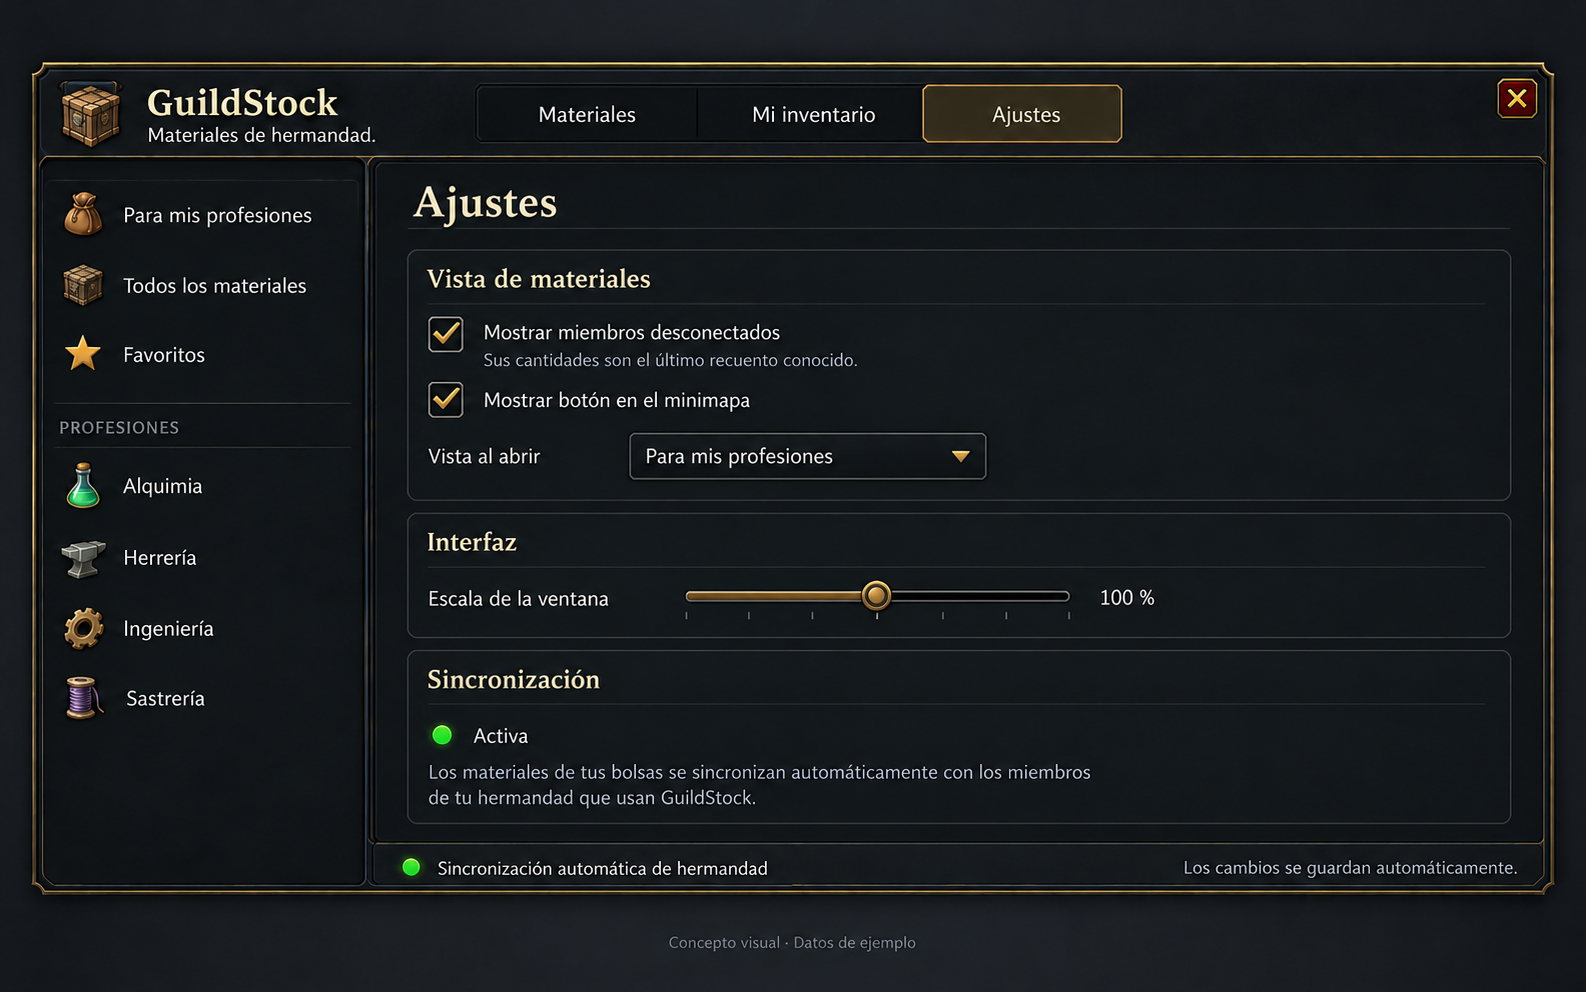
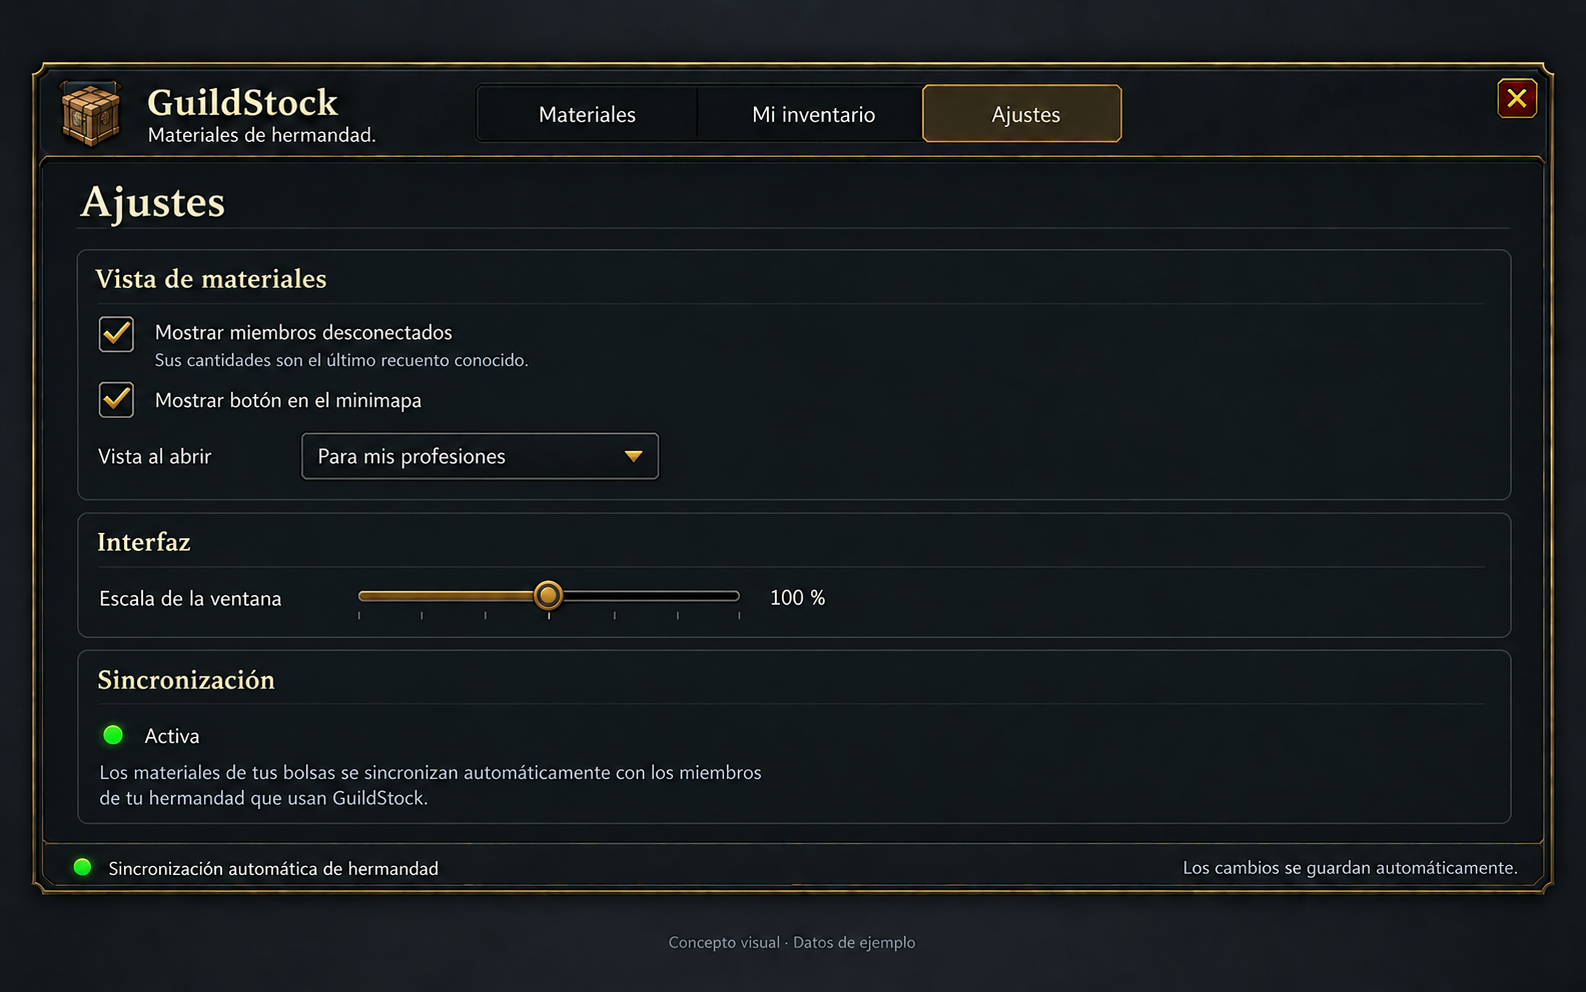
Remove materials sidebar from GuildStock settings concept

diff --git a/docs/GUILD_MATERIALS_PLAN.md b/docs/GUILD_MATERIALS_PLAN.md
@@ -14,7 +14,7 @@ One movable window, opened through a minimap button or slash command, with three
 - Last online shows Online for connected characters and the last known connection age for offline characters. Resolve that information from permitted guild-roster data and observed presence transitions; if unavailable, show Unknown rather than inventing a time. Last online is distinct from inventory observation age, which belongs in the quantity tooltip. Use zero only for a successful complete inventory observation; missing data never means zero.
 - Every character row contains its own Whisper button. It opens a draft addressed to that row’s character, with the material link; the player sends it. Disable the button for offline or unconfirmed connection states, explain why in a tooltip, and recheck connection state when clicked. There is no shared Whisper action beneath the table. There are no automatic orders, reservations, payments, or trades in the initial scope.
 - My inventory is a read-only view of profession materials in the player’s bags. Synchronization runs automatically while the addon is enabled and the character belongs to the guild, subject to client restrictions. There are no publish, offer, pause-publication, or manual synchronization buttons.
-- Settings are limited to showing offline members, minimap-button visibility, the initial view, and window scale. Show synchronization as a read-only status and save settings automatically. These presentation choices do not switch inventory synchronization on or off.
+- Settings use the full content width beneath the top tabs, without the material/profession sidebar. They are limited to showing offline members, minimap-button visibility, the initial view, and window scale. Show synchronization as a read-only status and save settings automatically. These presentation choices do not switch inventory synchronization on or off.
 
 For my professions means materials used by the player's learned professions. It is a relevance filter, not a claim that the player is missing those materials. Favorites are manual. Recipe-specific shortages require a selected recipe and target quantity and can follow later.
 
